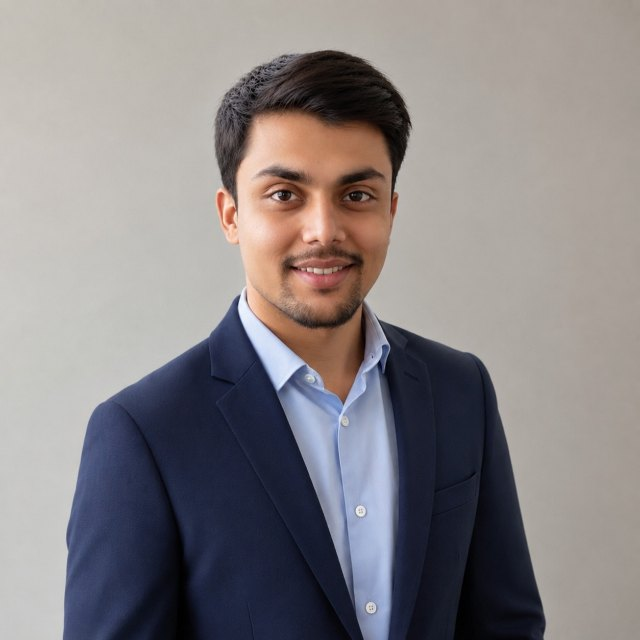
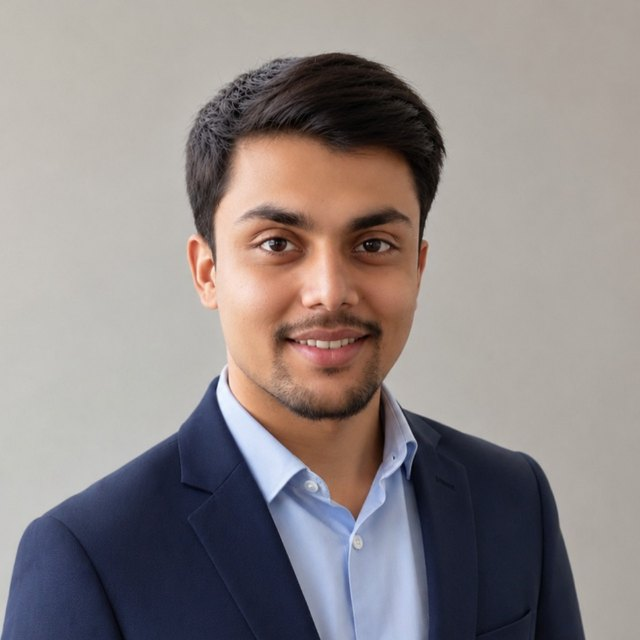
Add Faizan Memon as Head of Sales
Second entry on /team. The alternating feature layout was built for this —
the card flips to portrait-right on its own, no markup change.

Bio is the supplied description rewritten in the site's voice: same
substance (solution sales, the industries he covers, discovery through
delivery), without the resume register.

Two supporting changes:

- Faizan Vhora's portrait is re-cropped to 950px of its source. The new
  headshot is a tighter frame than the original full-body-ish crop, and
  side by side the head scales were visibly mismatched. Both now read at a
  comparable scale. Nothing about the original file is lost — the crop is
  an argument to the encoder, and the source is untouched.

- encode-portrait.mjs takes an optional source rect, and two defects in it
  are fixed. It navigated the tab to the image bytes, which left the page
  on an opaque origin and made toDataURL() throw on a tainted canvas as
  soon as a non-jpeg source was passed; it now serves a real HTML document
  on a separate path. And it hung after writing every file, because Chrome
  holds a keep-alive socket that server.close() waits on forever.

Verified: /team clean at 1440 and 390 — no contrast failures, no tap
targets under 24px, no overflow, one h1, no heading jumps. 26/26 reveals
fire and clear their delay; under prefers-reduced-motion all 26 are
visible. All 7 controls keyboard reachable with a focus ring.

diff --git a/src/pages/TeamPage.jsx b/src/pages/TeamPage.jsx
@@ -30,6 +30,25 @@ const leadership = [
       { href: 'https://www.linkedin.com/in/faizan-vhora-24a889175/', label: 'LinkedIn', icon: Icons.Linkedin, external: true },
     ],
   },
+  {
+    name: 'Faizan Memon',
+    role: 'Head of Sales',
+    slug: 'faizan-memon',
+    portrait: '/team/faizan-memon',
+    bio: [
+      'Faizan leads business development and solution sales at Pelquant, working with companies to find where AI, automation and custom software genuinely earn their place — and where they do not. His job is to turn a business problem into a scope the engineering side can build against.',
+      'He works across FinTech, PropTech, HealthTech, eCommerce and other technology-led sectors, and stays with an engagement from the first conversation through scoping and into delivery — so the person who set the expectations is the one accountable for meeting them.',
+    ],
+    focus: [
+      { icon: Icons.Briefcase, label: 'Solution Sales' },
+      { icon: Icons.Search, label: 'Discovery & Scoping' },
+      { icon: Icons.Target, label: 'Industry Verticals' },
+      { icon: Icons.Layers, label: 'Delivery Coordination' },
+    ],
+    links: [
+      { href: 'mailto:info@pelquant.com', label: 'info@pelquant.com', icon: Icons.MessageCircle },
+    ],
+  },
 ];
 
 // Founder-led is a structural fact about how this company is staffed, not a
